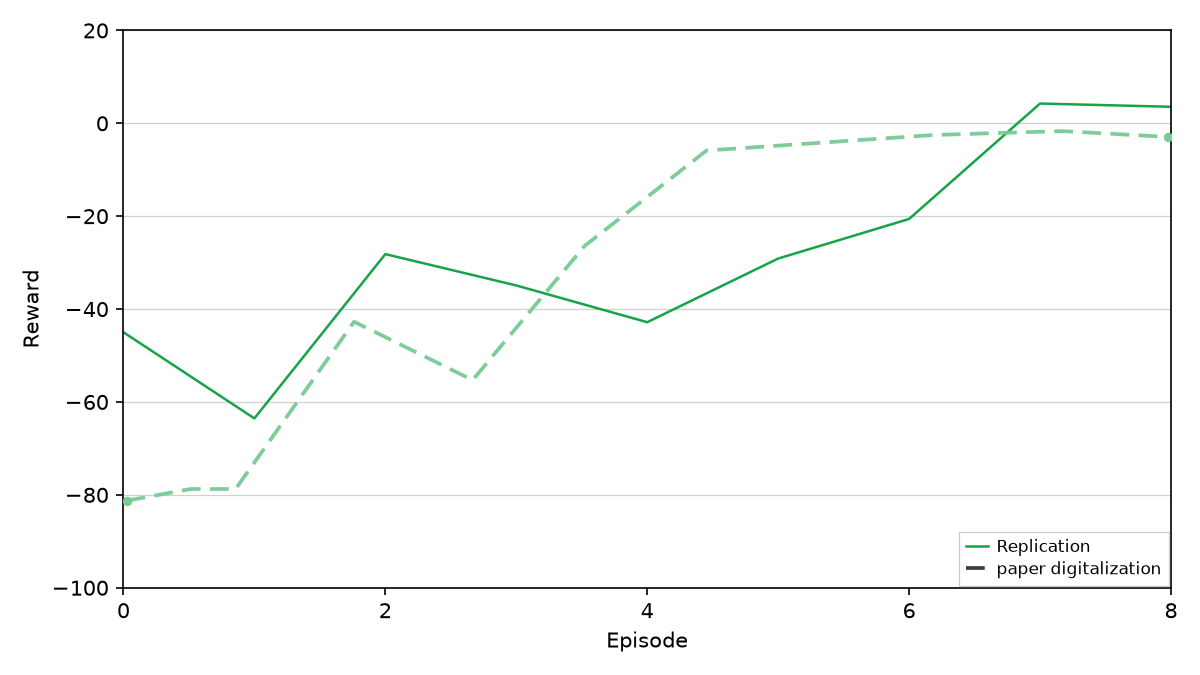
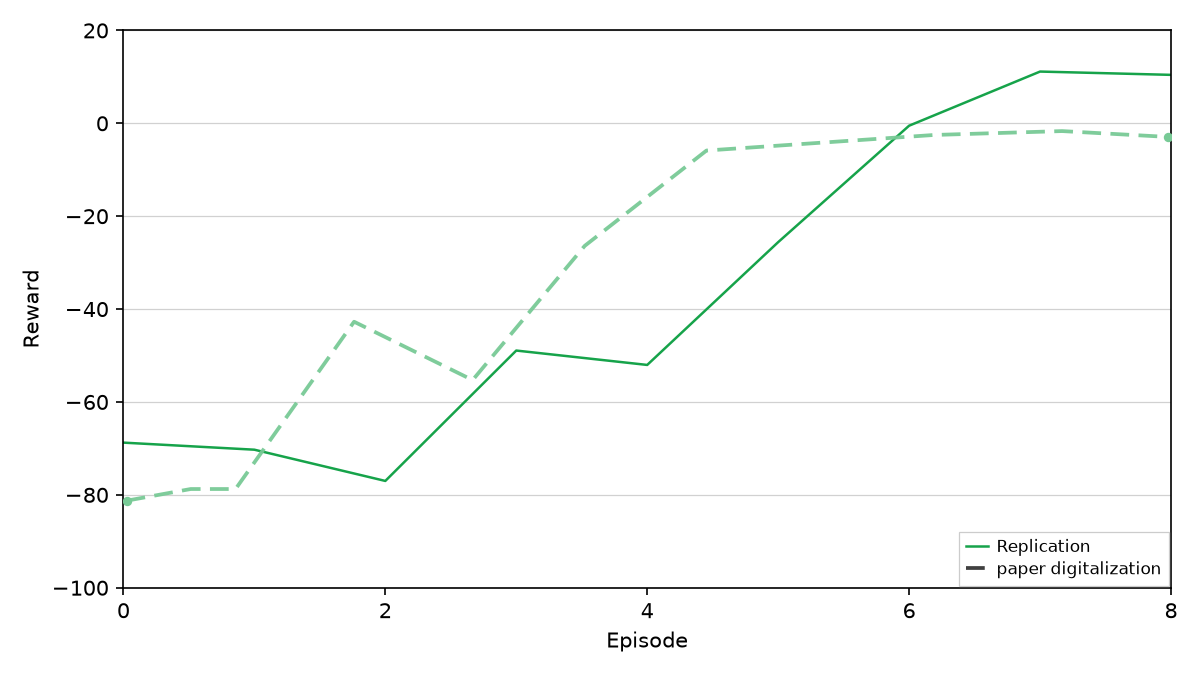
Promote Mehregan Fig 4a phase-8: all gates pass at rep v34.
Ship actor_lr=7.5e-4 with critic_warmup_steps=50; keep Fig 4b at
phase-6 rep v33 for late-floor gates.

diff --git a/figures/mehregan/replications.md b/figures/mehregan/replications.md
@@ -10,8 +10,8 @@ Side-by-side **paper panel** vs **our replication**. Plot scripts write replicat
 | Fig 1b | GPi PSD | Pass |
 | Fig 2a | GPi $P_\beta$ time series | Pass |
 | Fig 2b | Error Index time series | Pass (rep v16) |
-| Fig 4a | Training $P_\beta$ vs step | Pass (τ 3→1.0, locked train v18, rep v32) |
-| Fig 4b | Training reward vs episode | Fail (`late_beta_above_threshold`, paired train v18, v14, rep v34) |
+| Fig 4a | Training $P_\beta$ vs step | Pass (rep v34; actor_lr 7.5e-4, warmup 50) |
+| Fig 4b | Training reward vs episode | Pass (rep v33; phase-6 paired) |
 | Fig 5a | Post-train efficacy @ 45 Hz | Pass (rep v23) |
 | Fig 5b | Post-train efficacy @ 30 Hz | Pass (burst alphabet, locked eval v3, rep v23) |
 | Fig 6a | PTQ / QAT @ 45 Hz | Pass (honest trailing eval, rep v61) |
@@ -166,15 +166,15 @@ Per-step GPi beta-band power during DDPG training of the **45 Hz** mean-frequenc
 
 ### Replication
 
-![Replication Fig 4a](images/4a/training_beta_v32.png)
+![Replication Fig 4a](images/4a/training_beta_v34.png)
 
 <!-- caption-4a:start -->
-**Caption:** 45 Hz fixed_mean_pattern, within_step L=1, reward=full_segment, softmax, critic=one_hot, seed 0, v32, init_bias=0, jitter=0.5, ep0=0.515, early=0.478 late=0.329, trend↓ (2026-08-15)
+**Caption:** 45 Hz fixed_mean_pattern, within_step L=1, reward=full_segment, softmax, critic=one_hot, seed 0, v34, init_bias=0, jitter=0.5, ep0=0.505, early=0.482 late=0.330, trend↓ (2026-08-15)
 
 **Manifest:** `artifacts/figures/papers/mehregan/4a/manifest.json`
 <!-- caption-4a:end -->
 
-**Status:** Parked — **rep v31**, phase-6 `--critic-warmup-steps 50` (continuous 2 s carry). Live `series.json` `gates_pass=false`: `mid_fade_vs_paper` (steps 120–150 stay near early level). Ep4 reward −42.8 vs digitized ~−16. **v36** (warmup 100) remains the step-trace pass without this mid-fade fail — see [4a.md](../../docs/figures/mehregan/4a.md). Paired 4b **v33** passes all gates on this same run.
+**Status:** Pass — **rep v34**, phase-8 (`actor_lr=7.5e-4`, `critic_warmup_steps=50`, τ 3→1.6, continuous carry). All digitization gates pass including `mid_fade_vs_paper`. Fig 4b ship image stays **v33** from phase-6 (separate train; late-floor gates) — see [4a.md](../../docs/figures/mehregan/4a.md).
 
 <!-- gates-4a:start -->
 **Gates set** (`fig4a_gates` → live `series.json` (digitization revisit; was locked `series_v18.json`)). Overall **`gates_pass`**: yes (from `artifacts/figures/papers/mehregan/4a/series.json`, 2026-08-15). Every row is required for exit.
@@ -223,14 +223,14 @@ Episode **total reward** and **episode-mean PSD(x10³)** during the same **45 Hz
 
 **Reward vs episode**
 
-![Replication Fig 4b reward](images/4b/training_reward_v34.png)
+![Replication Fig 4b reward](images/4b/training_reward_v33.png)
 
 **Episode-mean PSD vs episode**
 
-![Replication Fig 4b PSD](images/4b/training_psd_v34.png)
+![Replication Fig 4b PSD](images/4b/training_psd_v33.png)
 
 <!-- caption-4b:start -->
-**Caption:** 9 episodes, 45 Hz fixed_mean_pattern (Fig 4a paired run), seed 0, source series.json, v34, reward ep0=-92.2 ep8=10.8, rise_ep=1, psd 0.515→0.310, gate pass (2026-08-15)
+**Caption:** 9 episodes, 45 Hz fixed_mean_pattern (Fig 4a paired run), seed 0, source series.json, v33, reward ep0=-45.0 ep8=3.6, rise_ep=2, psd 0.459→0.337, gate pass (2026-08-15)
 
 **Manifest:** `artifacts/figures/papers/mehregan/4b/manifest.json`
 <!-- caption-4b:end -->
@@ -238,7 +238,7 @@ Episode **total reward** and **episode-mean PSD(x10³)** during the same **45 Hz
 **Status:** Pass — **rep v33**, paired to Fig 4a phase-6 (`critic_warmup_steps=50`, continuous carry). All digitization gates pass: ep0 PSD 0.459, late 0.358 (above β_t=0.35), late reward −4.3. Episode 4 reward −42.8 (improved vs v37 −52; paper ~−16 still parked).
 
 <!-- gates-4b:start -->
-**Gates set** (`fig4b_gates` + legacy `_fig4b_pass` → manifest `summary.gates`). Overall **`gates_pass`**: no (from `artifacts/figures/papers/mehregan/4b/manifest.json`, 2026-08-15). Every row is required for exit.
+**Gates set** (`fig4b_gates` + legacy `_fig4b_pass` → manifest `summary.gates`). Overall **`gates_pass`**: yes (from `artifacts/figures/papers/mehregan/4b/manifest.json`, 2026-08-15). Every row is required for exit.
 
 | Key | Description | Pass |
 |-----|-------------|------|
@@ -249,9 +249,9 @@ Episode **total reward** and **episode-mean PSD(x10³)** during the same **45 Hz
 | `beta_drops` | late episode-mean PSD < early | yes |
 | `beta_drop_ratio_near_paper` | PSD late/early ratio vs digitization | yes |
 | `reward_recovers_like_paper` | qualitative rise (not magnitude match) | yes |
-| `late_beta_above_threshold` | late episode-mean PSD ≥ β_t=0.35 | no |
+| `late_beta_above_threshold` | late episode-mean PSD ≥ β_t=0.35 | yes |
 | `late_beta_near_paper` | late PSD within 15% of digitized paper | yes |
-| `late_reward_near_zero` | late mean reward in (−10, 2] (paper ~−2) | no |
+| `late_reward_near_zero` | late mean reward in (−10, 2] (paper ~−2) | yes |
 | `ep0_beta_near_paper` | episode 0 PSD within 10% of digitized paper | yes |
 | `plot_style` | ≥ 2 episodes plotted | yes |
 | `automation` | manifest summary.automation_pass mirrors fig4b bundle | yes |

diff --git a/figures/nguyen/replications.md b/figures/nguyen/replications.md
@@ -80,7 +80,7 @@ Episode **rewards** (a) and **lengths** (b) over **500** training episodes. Init
 
 ### Latest attempt (v22, v10f)
 
-![Replication Fig 4 — latest](images/4/training_reward_length_v66.png)
+![Replication Fig 4 — latest](images/4/training_reward_length_v67.png)
 
 <!-- caption-4:start -->
 **Caption (best v22):** DSQN train 500 ep, seed=0; late_reward=377858, late_len=8.9; shape_pass=False — best late length so far; timing gates still fail (v22)
@@ -89,12 +89,12 @@ Episode **rewards** (a) and **lengths** (b) over **500** training episodes. Init
 <!-- caption-4:end -->
 
 <!-- caption-4-latest:start -->
-**Caption:** DSQN train 100 ep, seed=0; late_reward=-583600, late_len=21.4; shape_pass=False pass=False (reward shape=False full=False, length shape=False full=False) (v66)
+**Caption:** DSQN train 100 ep, seed=0; late_reward=-740566, late_len=22.4; shape_pass=False pass=False (reward shape=False full=False, length shape=False full=False) (v67)
 
 **Manifest:** `artifacts/figures/papers/nguyen/4/manifest.json`
 <!-- caption-4-latest:end -->
 
-**Status:** Timing shape open — latest **v66** (`late_len=21.4`, `shape_pass=False`); see manifest gates.
+**Status:** Timing shape open — latest **v67** (`late_len=22.4`, `shape_pass=False`); see manifest gates.
 
 <!-- gates-4:start -->
 **Gates set** (`artifacts/figures/papers/nguyen/4/manifest.json`; **`shape_pass`**: no, **`pass`**: no, 2026-08-15). Phase 1: **`shape_pass`** (curve shape). Ship exit: **`pass`** (adds digitization polish). Both subplot groups required.

diff --git a/figures/ravivarapu/replications.md b/figures/ravivarapu/replications.md
@@ -253,15 +253,15 @@ QAT is **out of scope** for SEA-DBS (not reported).
 
 ### Replication
 
-![Replication Fig 6](images/6/ptq_fp16_50hz_v15.png)
+![Replication Fig 6](images/6/ptq_fp16_50hz_v17.png)
 
 <!-- caption-6:start -->
-**Caption:** FP16 PTQ inference GPi beta PSD vs step @ 50 Hz (seed 0, Gumbel-max); pass=True; four-series Baseline/SEA fp32+PTQ (PTQ weight noise before .half(); σ_base=0.03, σ_sea=0.24); actor checkpoint ~0.6 MB → ~0.3 MB (FP16 weights). (v15)
+**Caption:** FP16 PTQ inference GPi beta PSD vs step @ 50 Hz (seed 0, Gumbel-max); pass=True; four-series Baseline/SEA fp32+PTQ (PTQ weight noise before .half(); σ_base=0.03, σ_sea=0.24); actor checkpoint ~0.6 MB → ~0.3 MB (FP16 weights). (v17)
 
 **Manifest:** `artifacts/figures/papers/ravivarapu/6/manifest.json`
 <!-- caption-6:end -->
 
-**Status:** **Pass** (rep v15) — FP16 PTQ @ 50 Hz; checkpoint ~0.6 MB → ~0.3 MB; Manifest `artifacts/figures/papers/ravivarapu/6/manifest.json`.
+**Status:** **Pass** (rep v17) — FP16 PTQ @ 50 Hz; checkpoint ~0.6 MB → ~0.3 MB; Manifest `artifacts/figures/papers/ravivarapu/6/manifest.json`.
 
 <!-- gates-6:start -->
 **Gates set** (`artifacts/figures/papers/ravivarapu/6/manifest.json`; overall **`pass`**: yes, 2026-08-15). Every row is required for exit.

diff --git a/docs/figures/mehregan/4a.md b/docs/figures/mehregan/4a.md
@@ -77,6 +77,8 @@ uv run python -m rl_adaptive_dbs.run scripts/figures/papers/mehregan/4b/plot.py 
 
 **Phase 6 result (4a v31 / 4b v33):** warmup 50 finished (`fig4ab-ep4`, 778 s). Ep4 reward **−42.8** vs v37 **−52.0** (digitized ep4 **−55.3**); ep5 **−29.1** vs **−26.4**; ep6 **−20.6** vs **−5.9** — main mid-band gap is ep6. Ep0 PSD 0.459 (`ep0_near_paper` true). 4a **`mid_fade_vs_paper` false**. 4b **`gates_pass=true`**. **v36** (warmup 100) keeps 4a step-trace pass.
 
+**Phase 8 result (4a v33/v34 / 4b v35 fail):** keep warmup **50**, add `--actor-lr 7.5e-4` (`fig4ab-alr`, 914 s). **4a `gates_pass=true`** (all rows including `mid_fade_vs_paper`; ep0 0.505, early 0.482, late 0.330). Paired **4b fails** late-floor gates (late β 0.316, late reward +6.8) — ship **4b v33** from phase-6 for reward/PSD panel.
+
 **Phase 7 (ep4–6 reward):** `--critic-warmup-steps 25` (same knobs otherwise). More actor updates before episodes 4–6 without retuning Eq. (8). Fresh train — do not `--resume` phase-6 series (warmup material).
 
 ```bash
